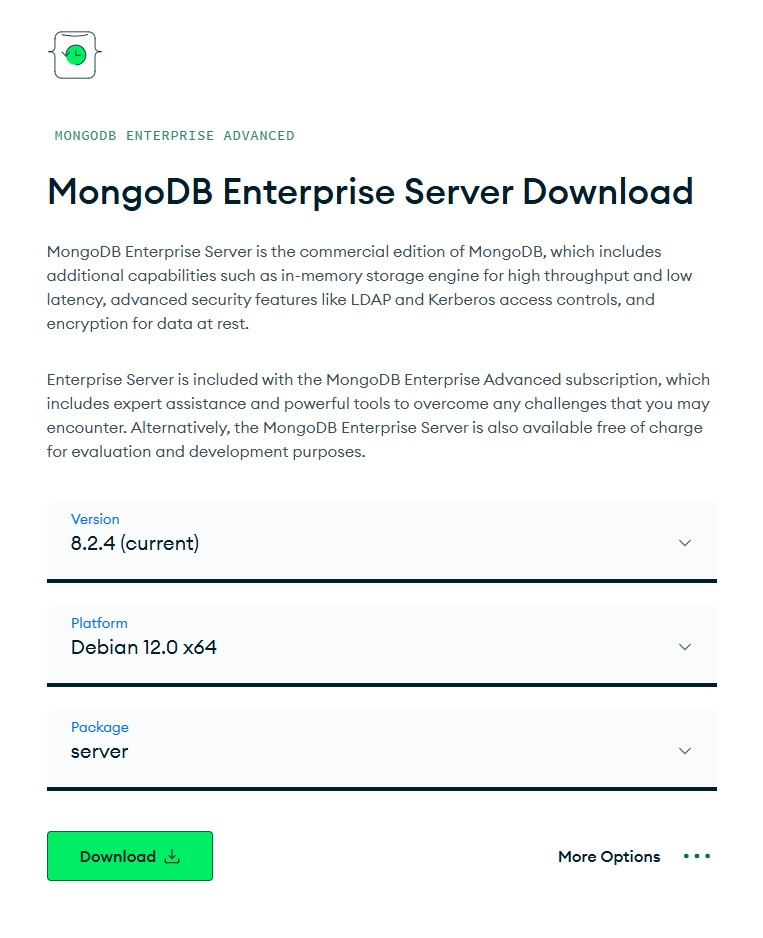
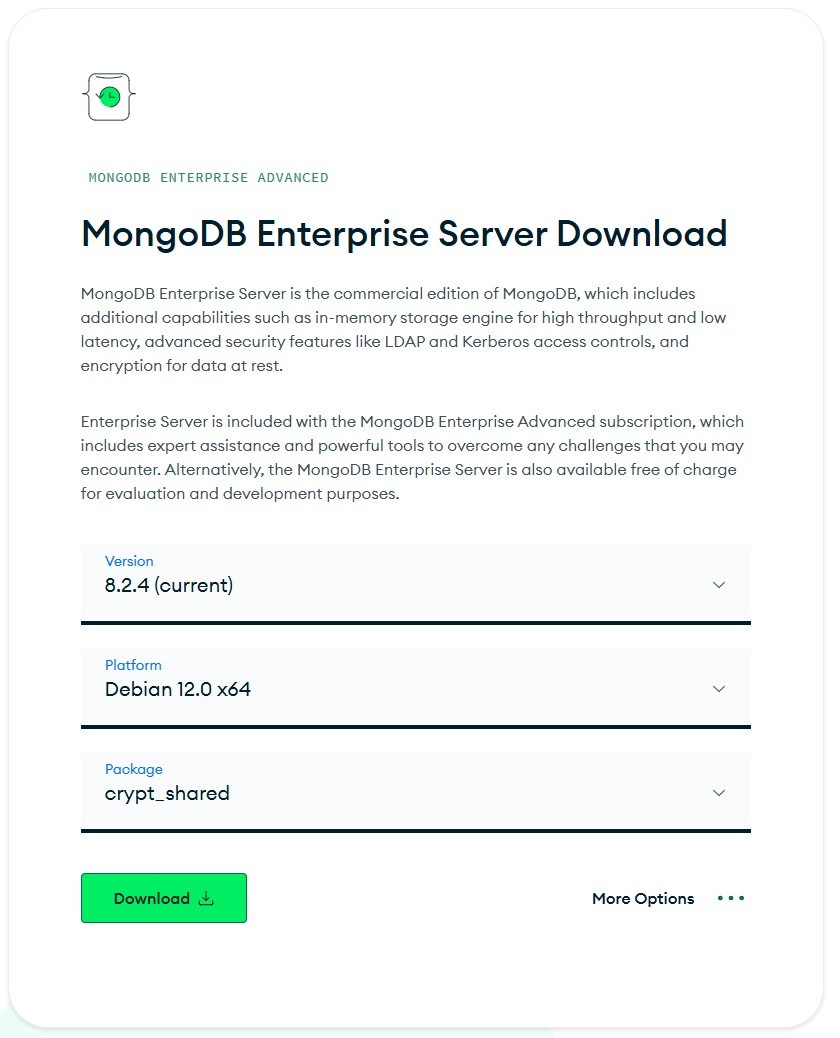
update docs

diff --git a/README.md b/README.md
@@ -17,23 +17,32 @@ Minimal, copy/pasteable Node.js examples that write and read encrypted data with
   - `mongo_crypt_v1` shared library available; set `MONGODB_CRYPT_SHARED_LIB_PATH` to its absolute path for QE and for CSFLE without `mongocryptd`.
 
 ## Quick crypt_shared setup (QE / auto-encryption)
+
+Create a project
 ```bash
-mkdir myproj && cd myproj  # create a fresh demo folder
+ mkdir myproj && cd myproj
+```
 
-# MacOS (pick the right hardware build)
-curl -L https://downloads.mongodb.com/osx/mongo_crypt_shared_v1-macos-arm64-enterprise-8.0.4.tgz \
-  | tar xzvf - lib/mongo_crypt_v1.dylib                # -L follow redirects; tar xzvf extract to ./lib
+Install MongoDB Crypt (Service or Shared Library)
+- MacOS (pick the right hardware build)
+  ```bash
+  curl -L https://downloads.mongodb.com/osx/mongo_crypt_shared_v1-macos-arm64-enterprise-8.0.4.tgz | tar xzvf - lib/mongo_crypt_v1.dylib
+  ```
+- Windows x64
+  ```bash
+  # Download https://downloads.mongodb.com/windows/mongodb-windows-x86_64-enterprise-8.0.4-signed.msi
+  # Copy ./bin/mongo_crypt_v1.dll to myproj/lib
+  ```
+- Linux (AWS / Debian / Ubuntu)
+  ```bash
+  # Use https://www.mongodb.com/download-center/enterprise/releases and pick the correct CPU (ARM vs x86) and the stand-alone crypt_shared package.
 
-# Windows x64
-# Download https://downloads.mongodb.com/windows/mongodb-windows-x86_64-enterprise-8.0.4-signed.msi
-# Copy ./bin/mongo_crypt_v1.dll to myproj/lib
+  xattr -d com.apple.quarantine ./lib/mongo_crypt_v1.dylib  # remove quarantine on macOS; -d deletes the attribute
+  export MONGODB_CRYPT_SHARED_LIB_PATH="$PWD/lib/mongo_crypt_v1.dylib" # absolute path required
+  ```
+  ![](./docs/mdb.prd.ea.download.jpg)
 
-# Linux (AWS / Debian / Ubuntu)
-# Use https://www.mongodb.com/download-center/enterprise/releases and pick the correct CPU (ARM vs x86) and the stand-alone crypt_shared package.
-
-xattr -d com.apple.quarantine ./lib/mongo_crypt_v1.dylib  # remove quarantine on macOS; -d deletes the attribute
-export MONGODB_CRYPT_SHARED_LIB_PATH="$PWD/lib/mongo_crypt_v1.dylib" # absolute path required
-
+```bash
 npm init -y                                          # -y accepts defaults to create package.json
 npm install mongodb mongodb-client-encryption        # drivers + client-side encryption addon
 ```
